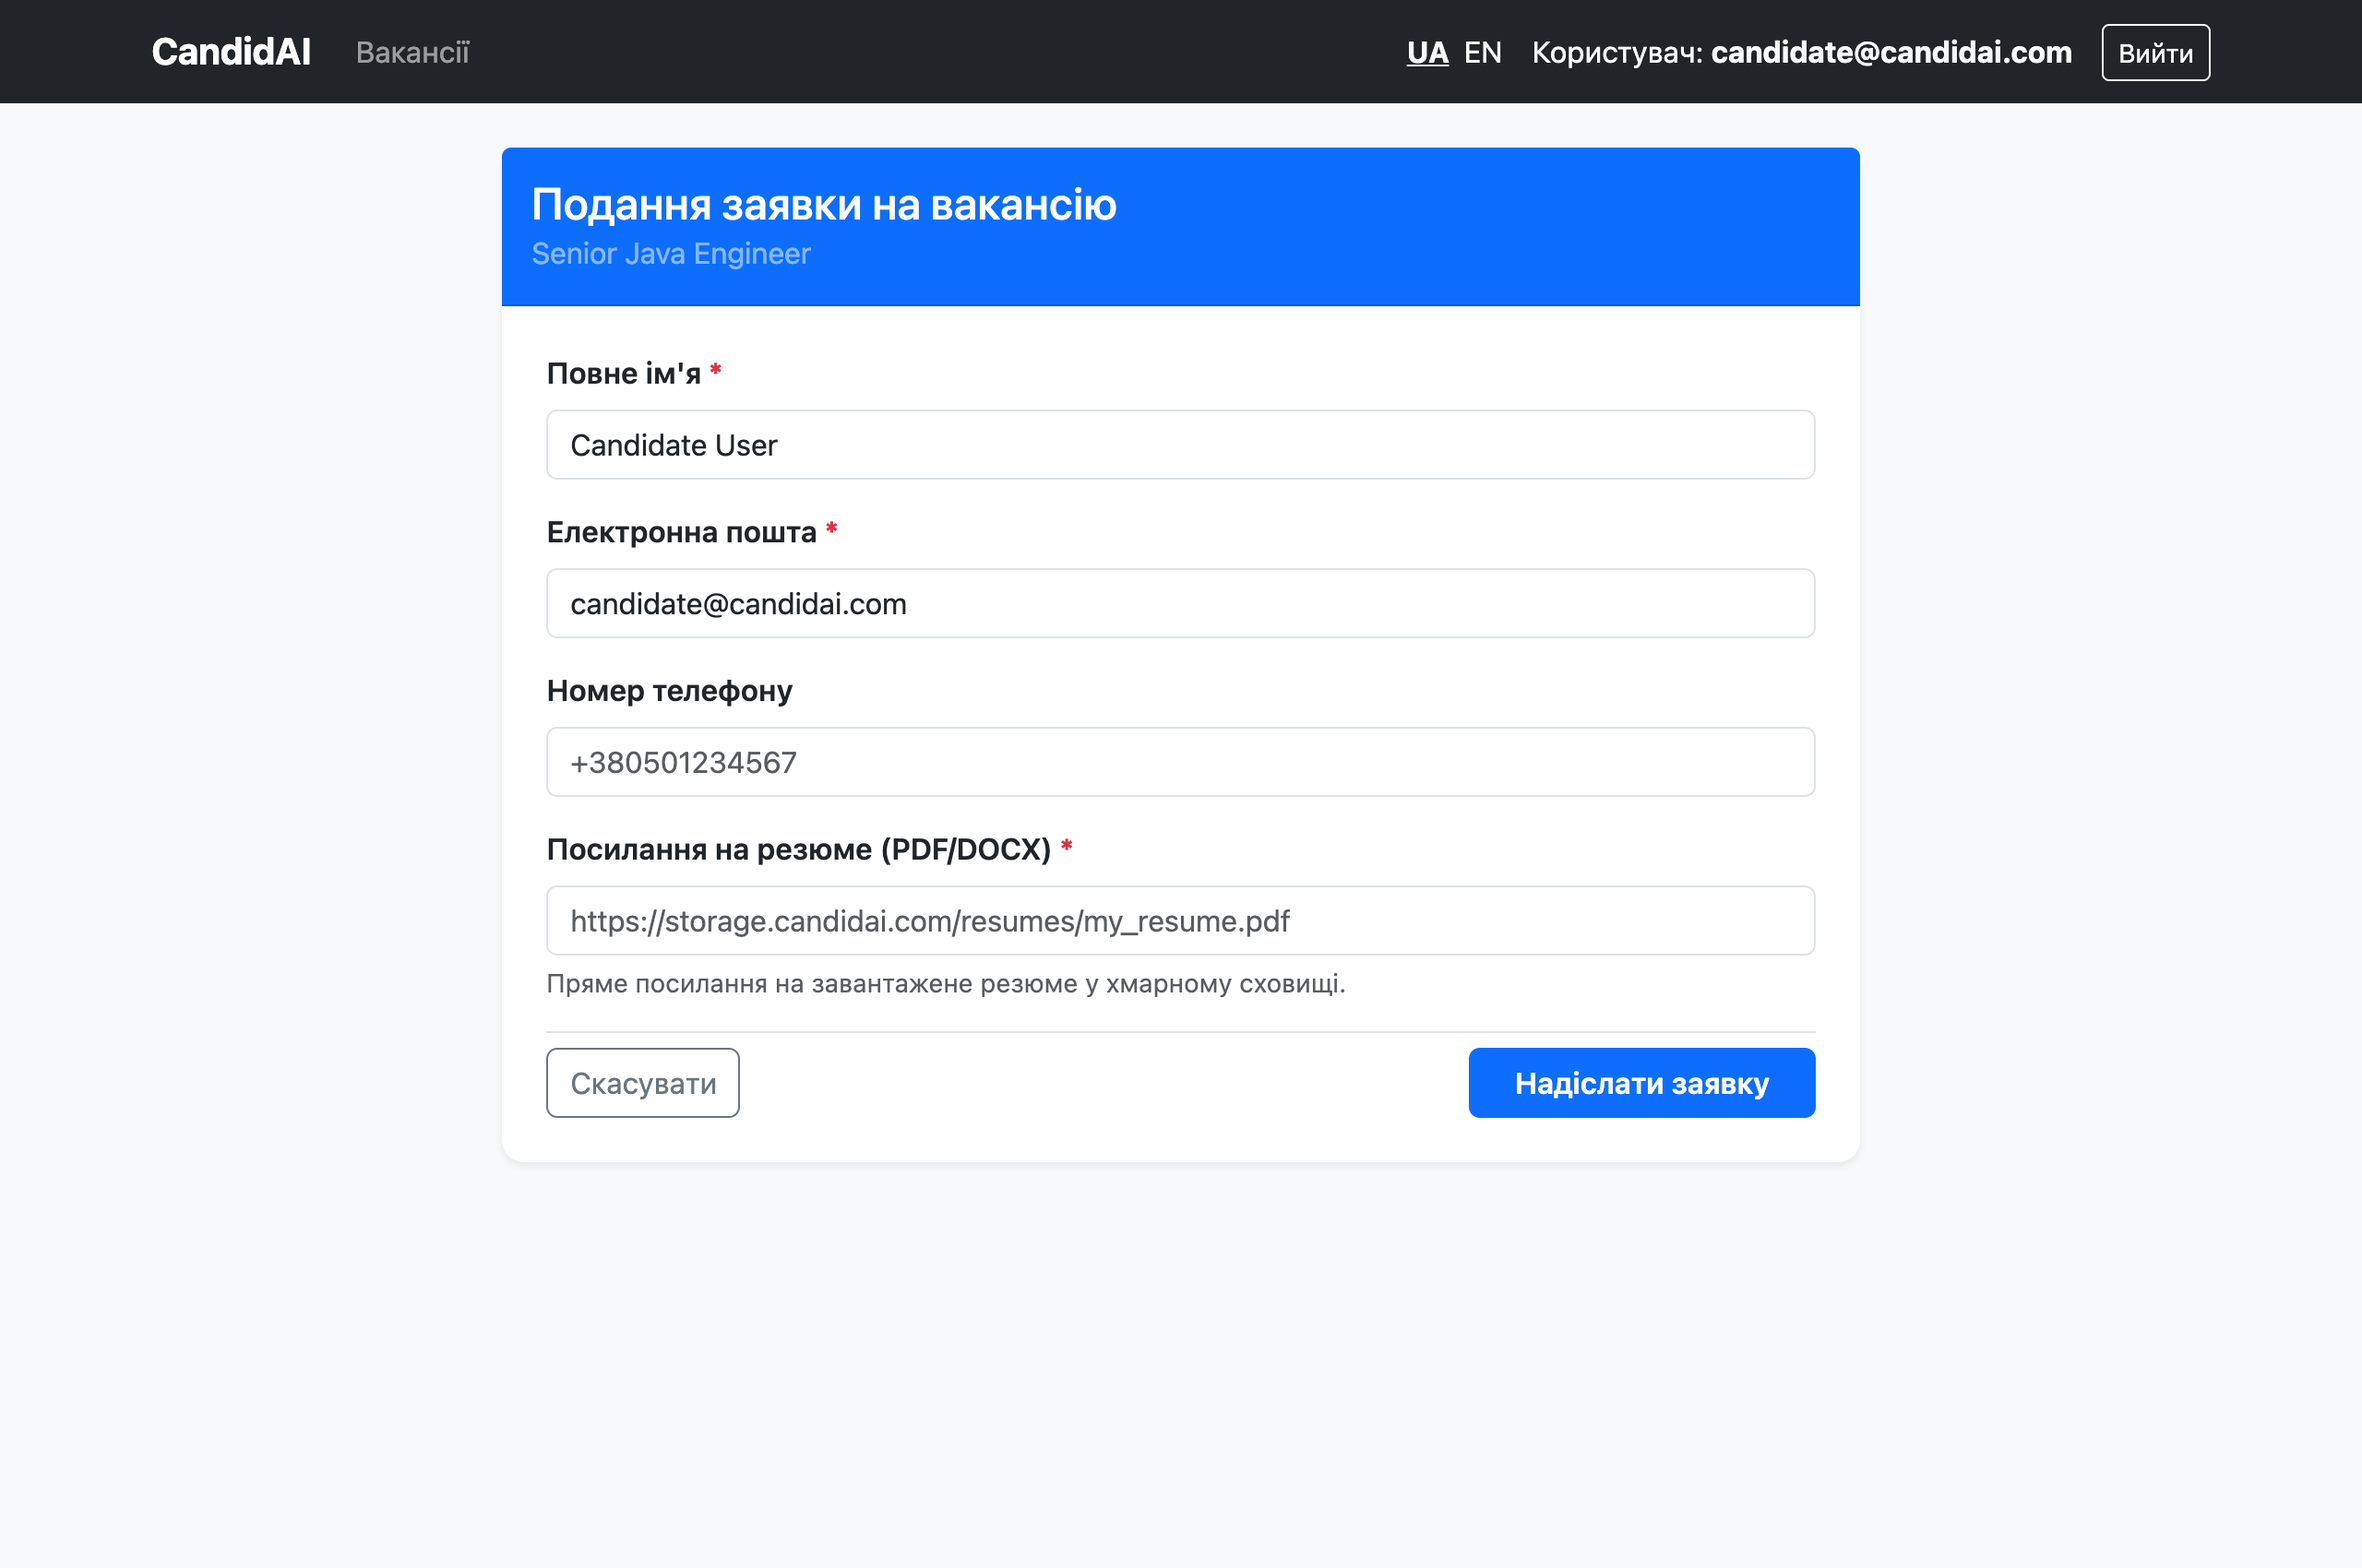
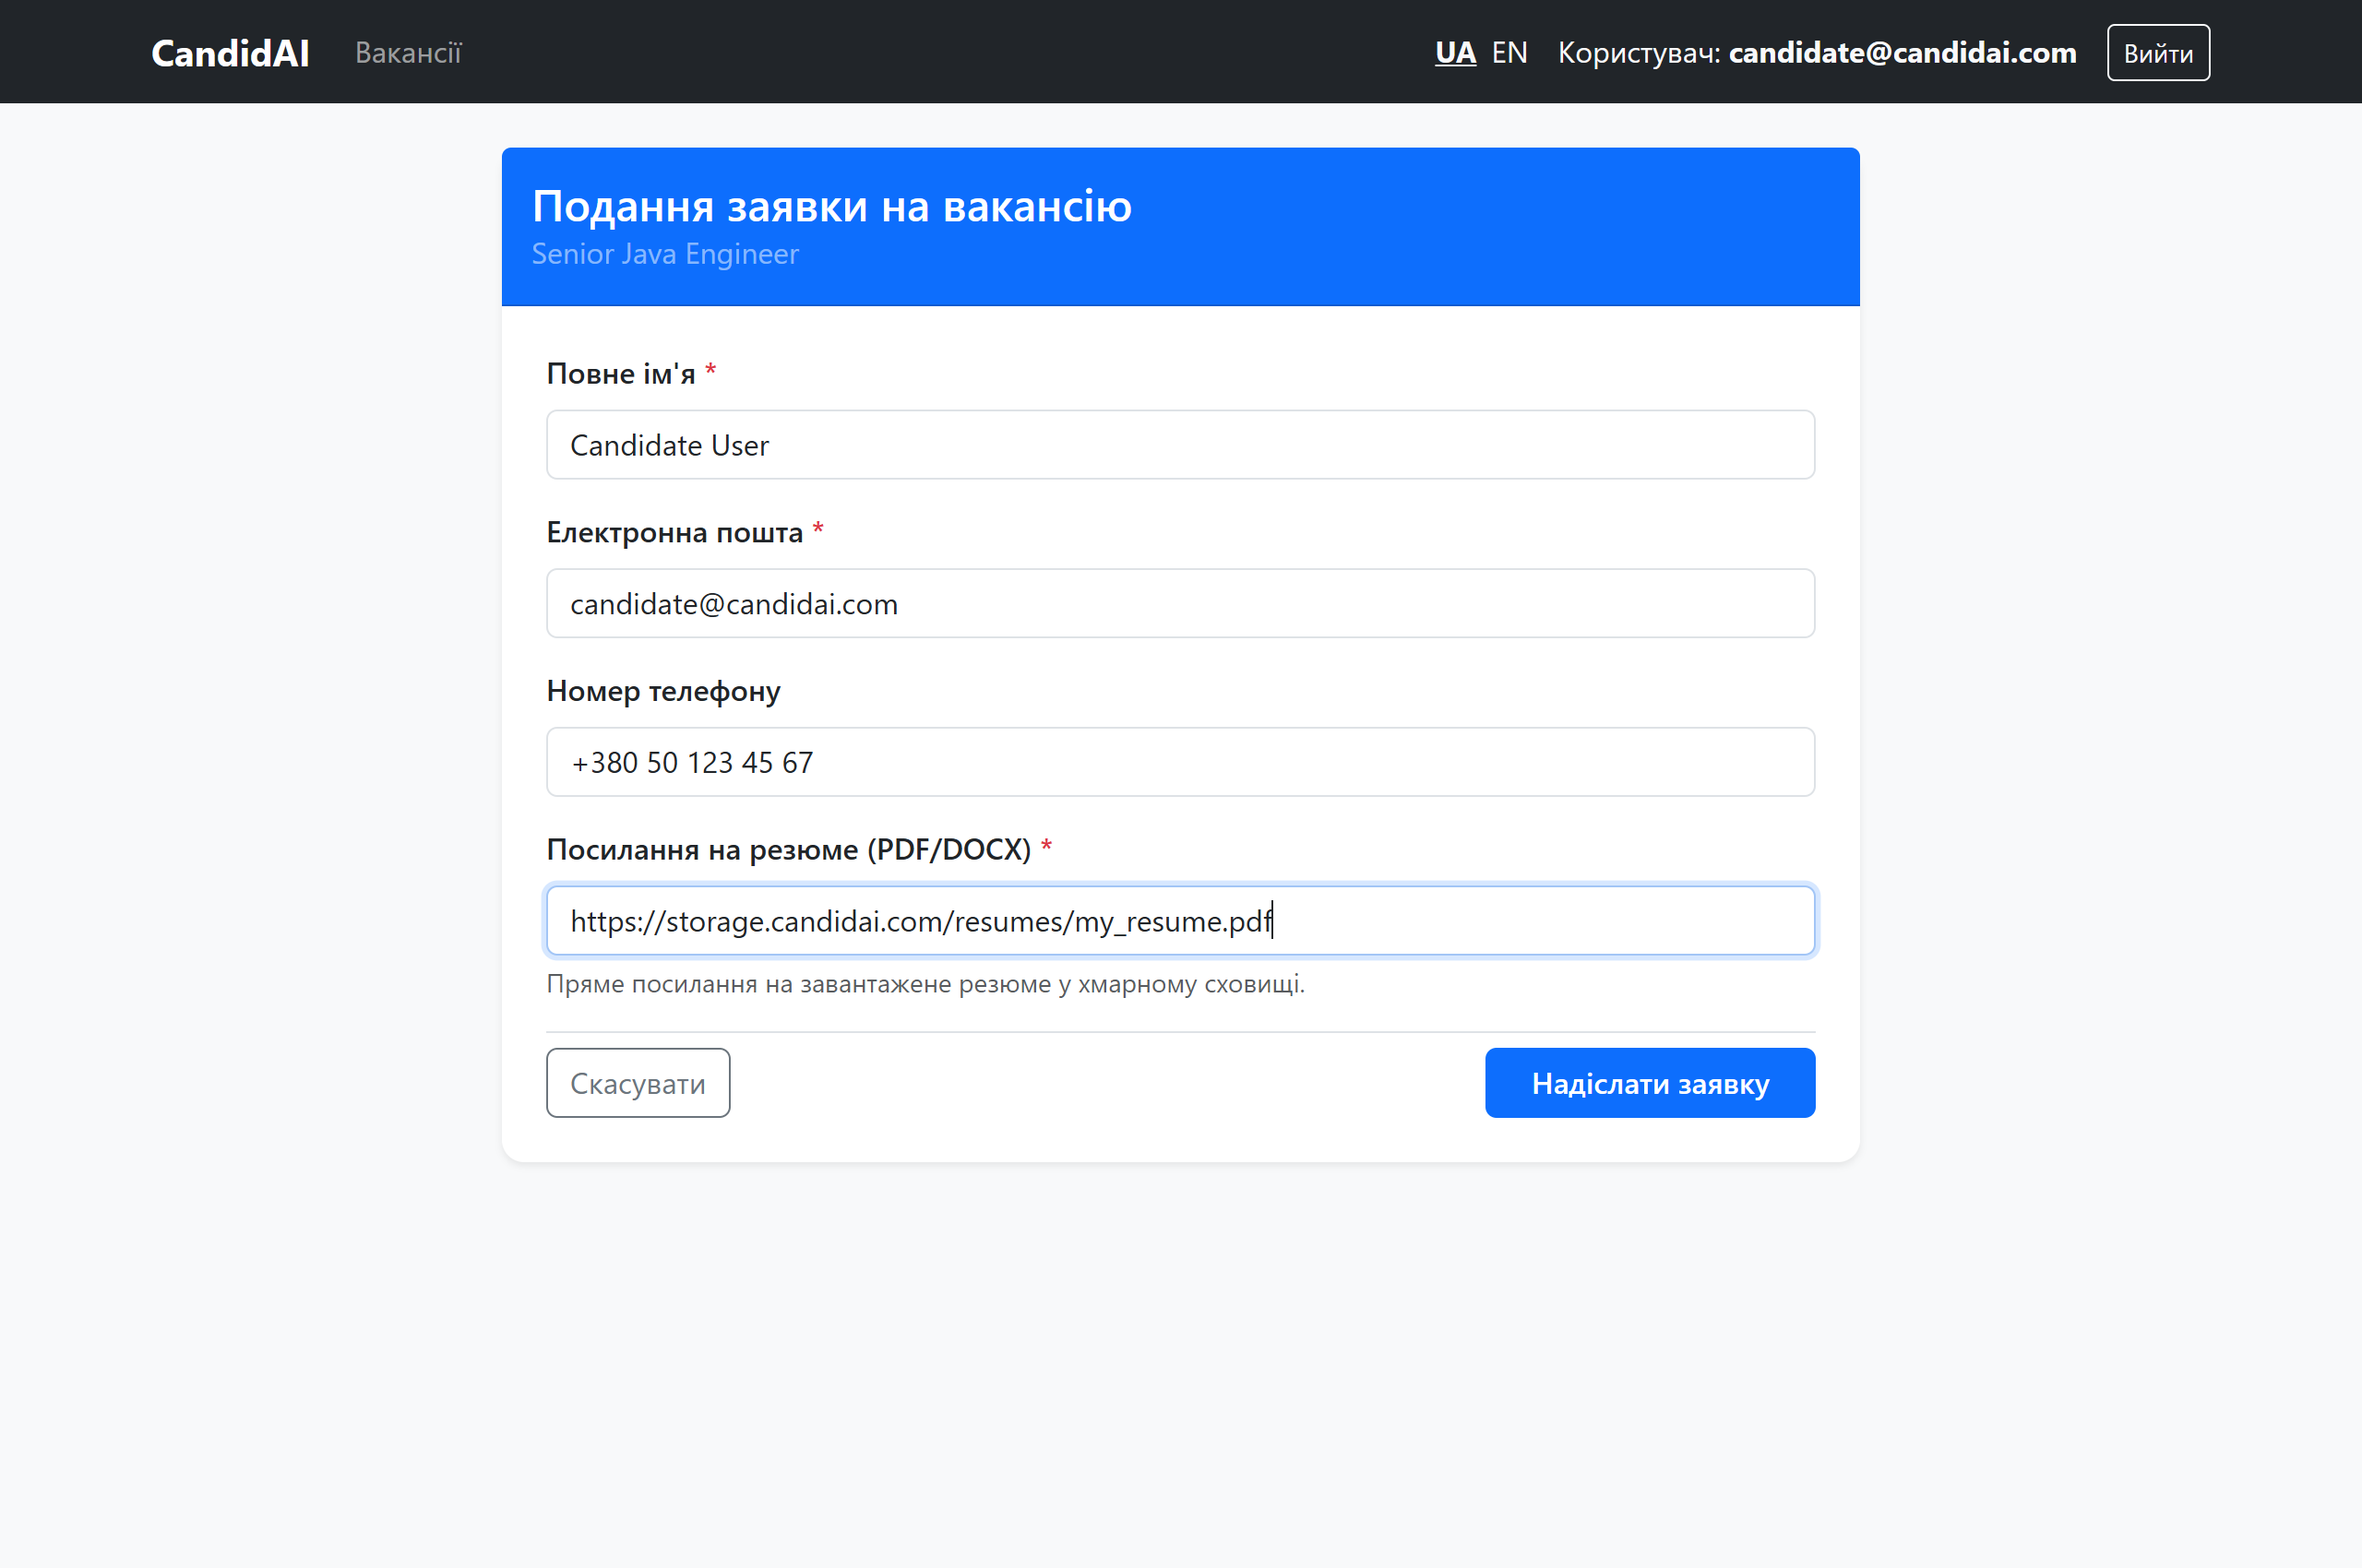
docs(screenshots): update application apply and success screenshots and add candidate edit view

diff --git a/docs/practice-7-report.md b/docs/practice-7-report.md
@@ -211,7 +211,7 @@ HTTP/1.1 403 Forbidden
 ---
 
 ### 10. Успішне подання заявки (Патерн PRG)
-*Маршрут: `POST /vacancies/{id}/apply` -> `redirect:/vacancies`. Flash-повідомлення «Вашу заявку успішно надіслано! Дякуємо за відгук.».*
+*Маршрут: `POST /vacancies/{id}/apply` -> `redirect:/vacancies`. Flash-повідомлення «Вашу заявку успішно надіслано! Дякуємо за відгук.» та динамічна зміна кнопки подачі на статусний бейдж `[APPLIED]` із посиланням «Редагувати».*
 ![10-apply-success](screenshots/10-apply-success.png)
 
 ---
@@ -231,6 +231,12 @@ HTTP/1.1 403 Forbidden
 ### 13. Власна сторінка помилки 404 Not Found
 *Маршрут: `GET /vacancies/00000000-0000-0000-0000-000000000000` (перехід на неіснуючу або видалену вакансію). Замість білої сторінки чи машинного JSON-помилки відображається стилізований HTML-шаблон `error/404.html` у загальному дизайні проєкту з навігацією та кнопкою повернення.*
 ![13-not-found-404](screenshots/13-not-found-404.png)
+
+---
+
+### 14. Редагування збереженої заявки кандидатом
+*Маршрут: `GET /vacancies/{id}/apply` під роллю `CANDIDATE` для раніше поданої заявки. Форма відкривається у режимі редагування із зазначенням статусу (`[APPLIED]`), збереженими значеннями контактного номера телефону та посилання на резюме і кнопкою «Оновити заявку».*
+![14-edit-application-candidate](screenshots/14-edit-application-candidate.png)
 
 ---
 
